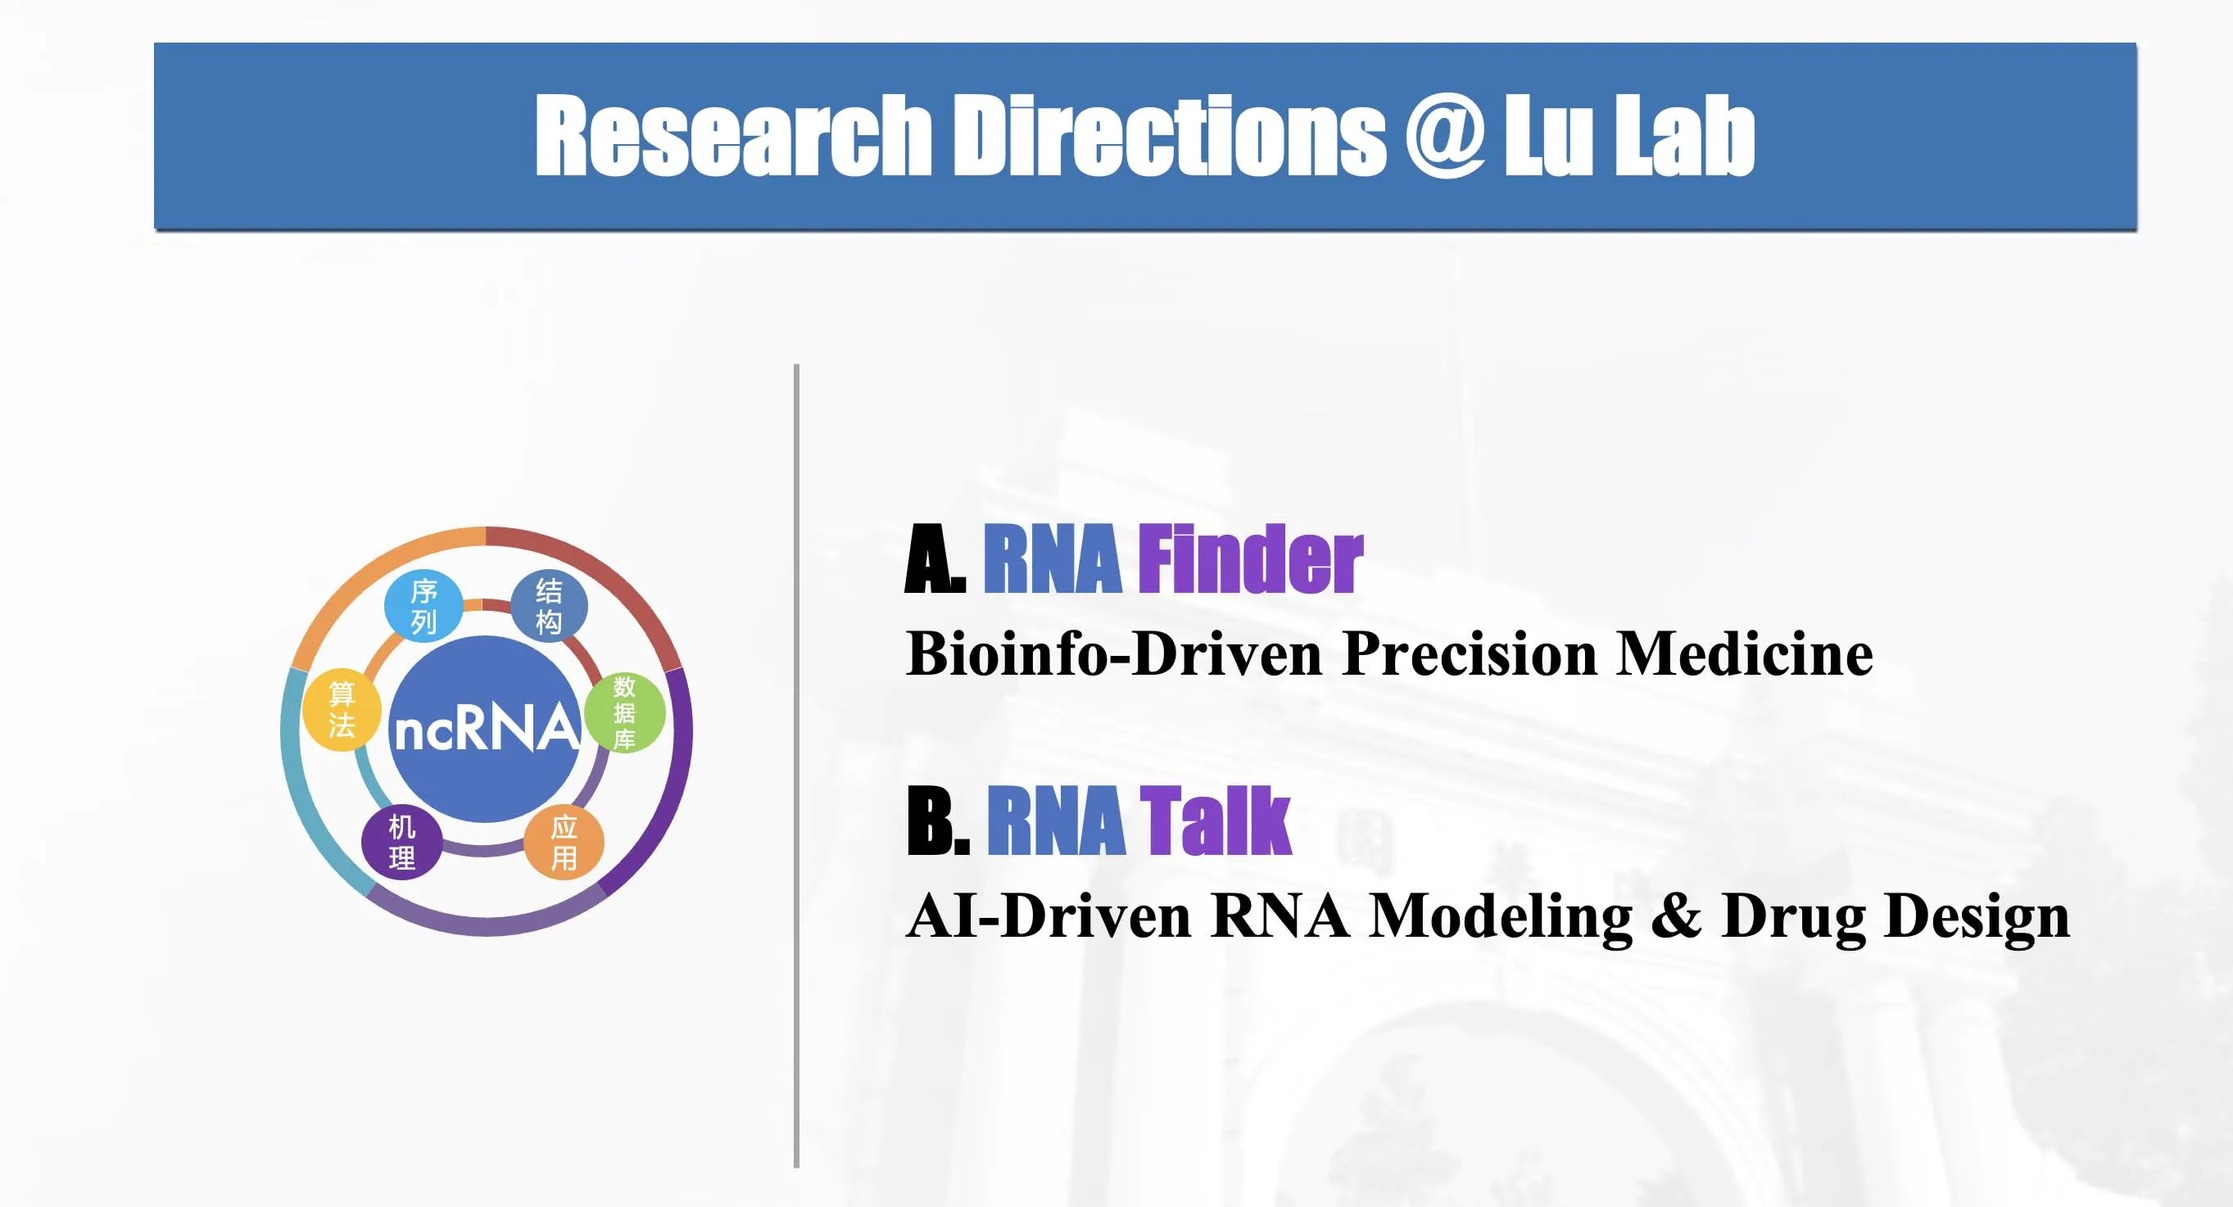
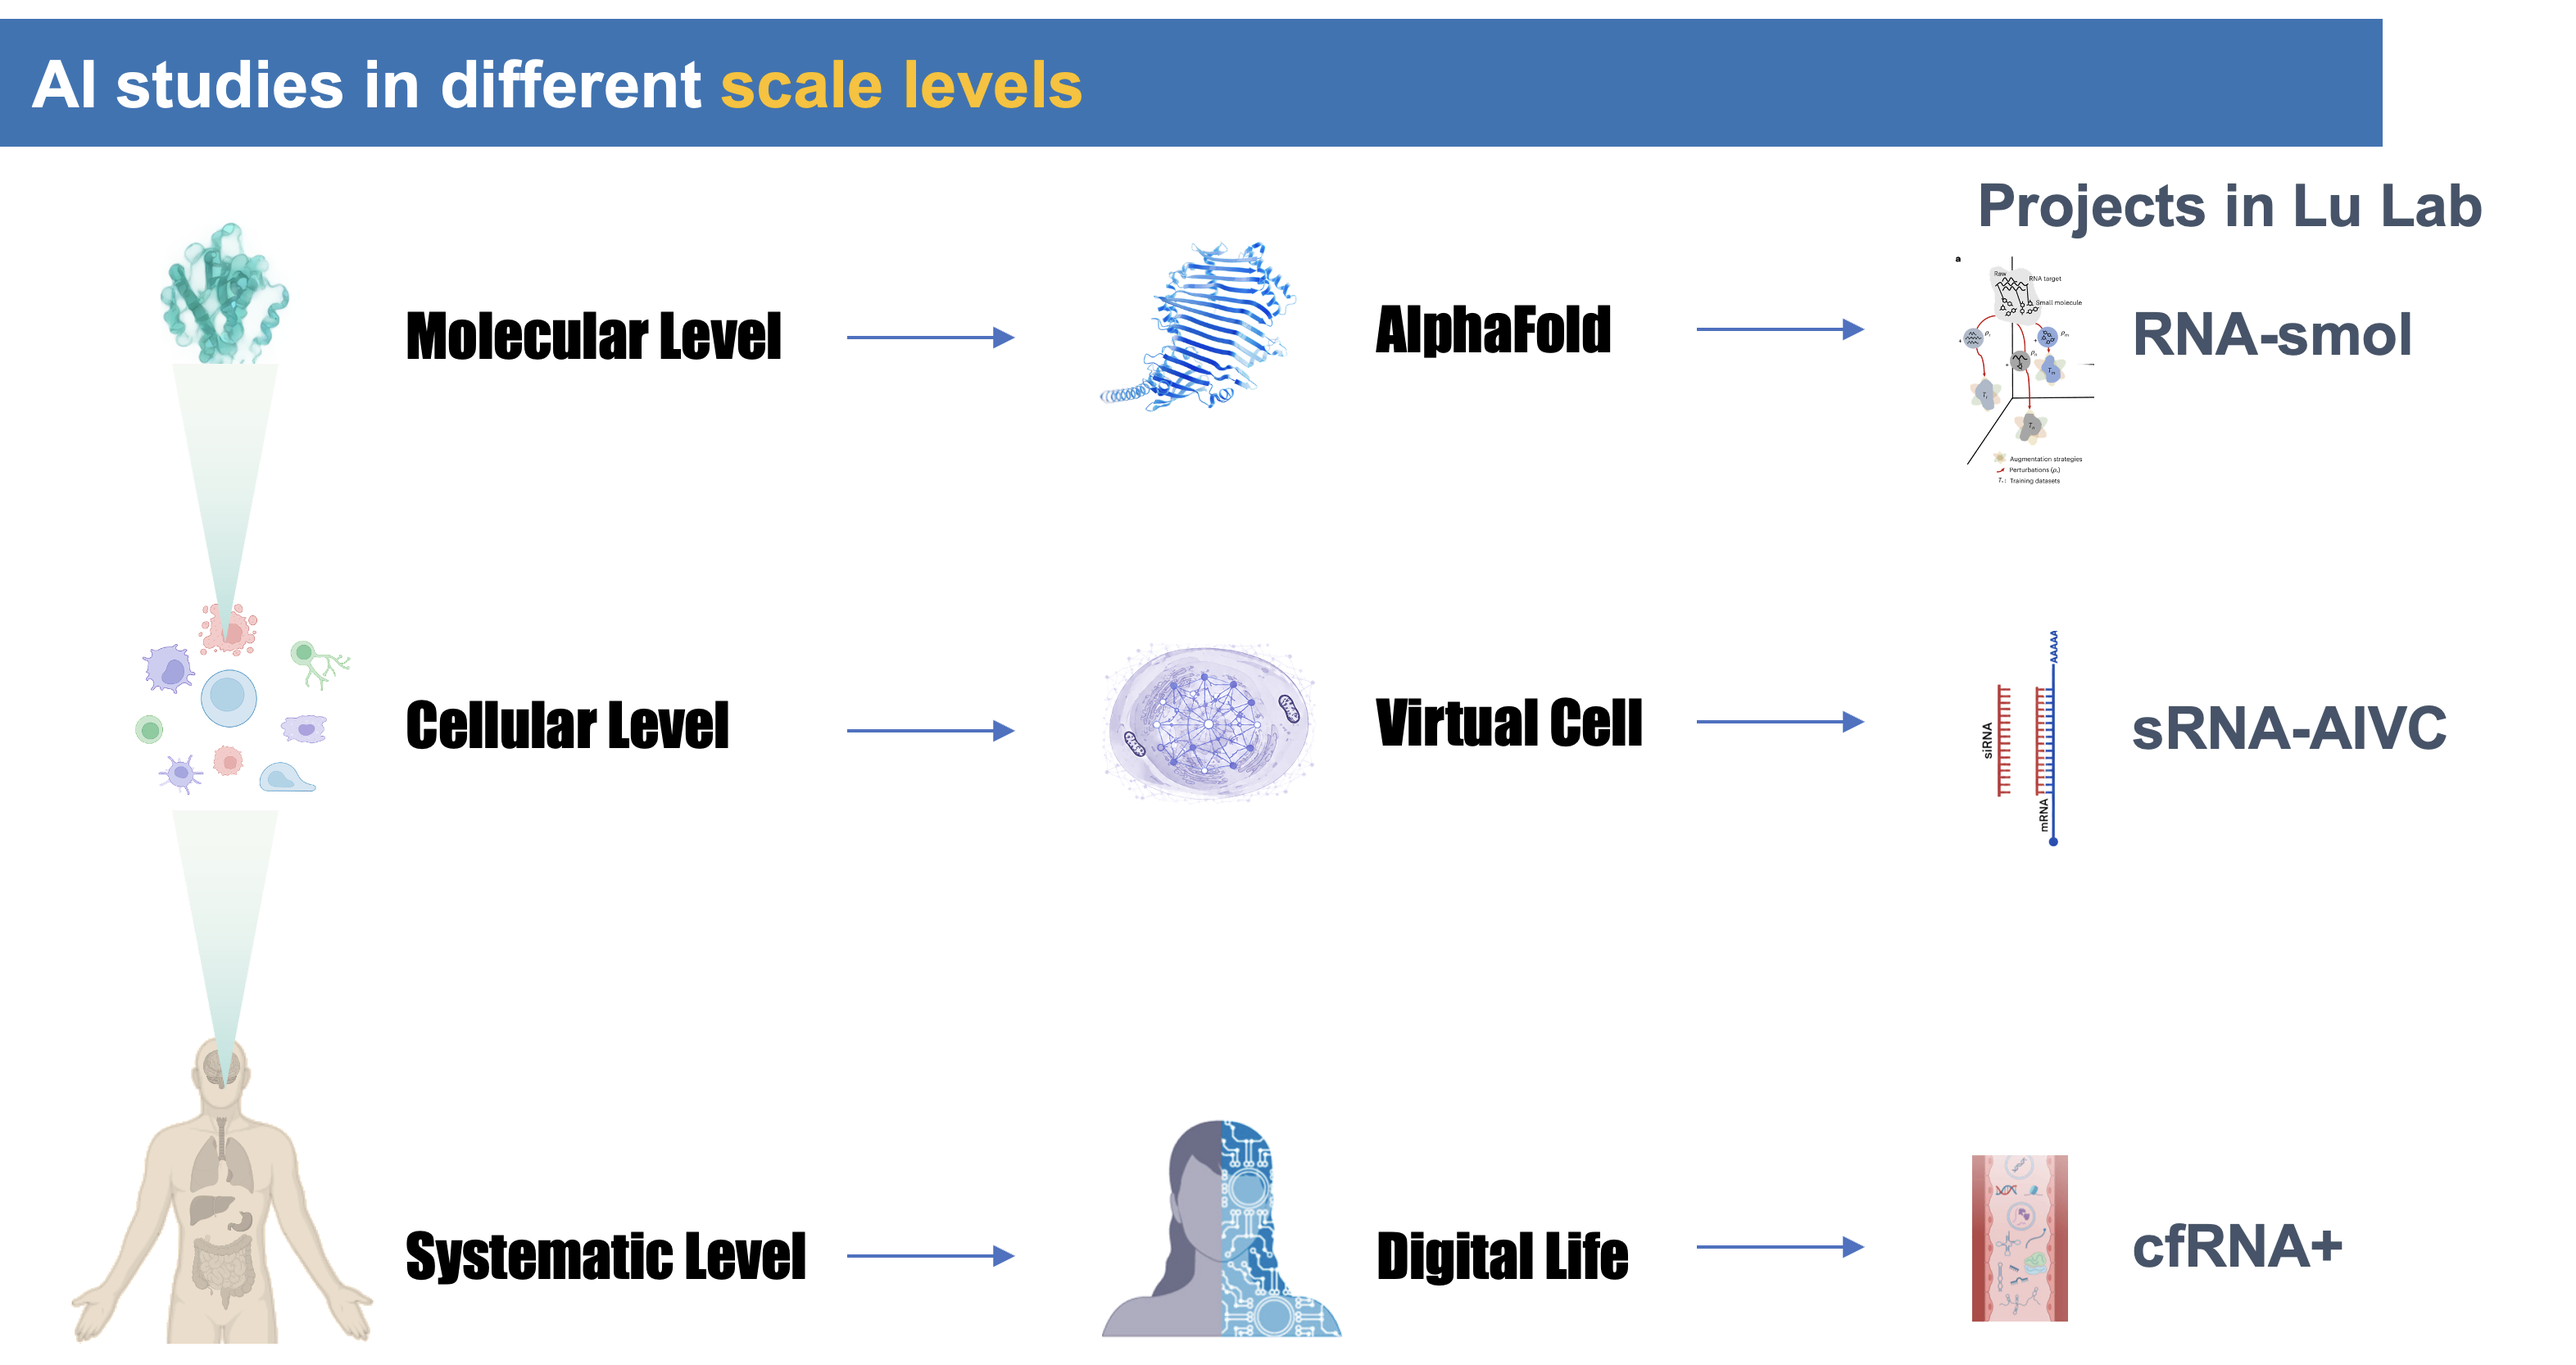
update proj

diff --git a/docs/projects/proj.md b/docs/projects/proj.md
@@ -29,7 +29,7 @@ title: 清华大学・鲁志实验室 科研课题
 
 ## Projects 
 
-我们围绕非编码 RNA（ncRNA）在两个主要的科研方向上进行探索和研究：I. 生信驱动的**精准医疗**；II. AI驱动的**核酸模型和药物设计**。
+我们围绕非编码 RNA（ncRNA）在两个主要的科研方向上进行探索和研究：I. **生信驱动的精准医疗**；II. **AI驱动的核酸模型和药物设计**。
 
 <div align="middle">
   <img src="../img/projects.webp" style="width:300px;" />
